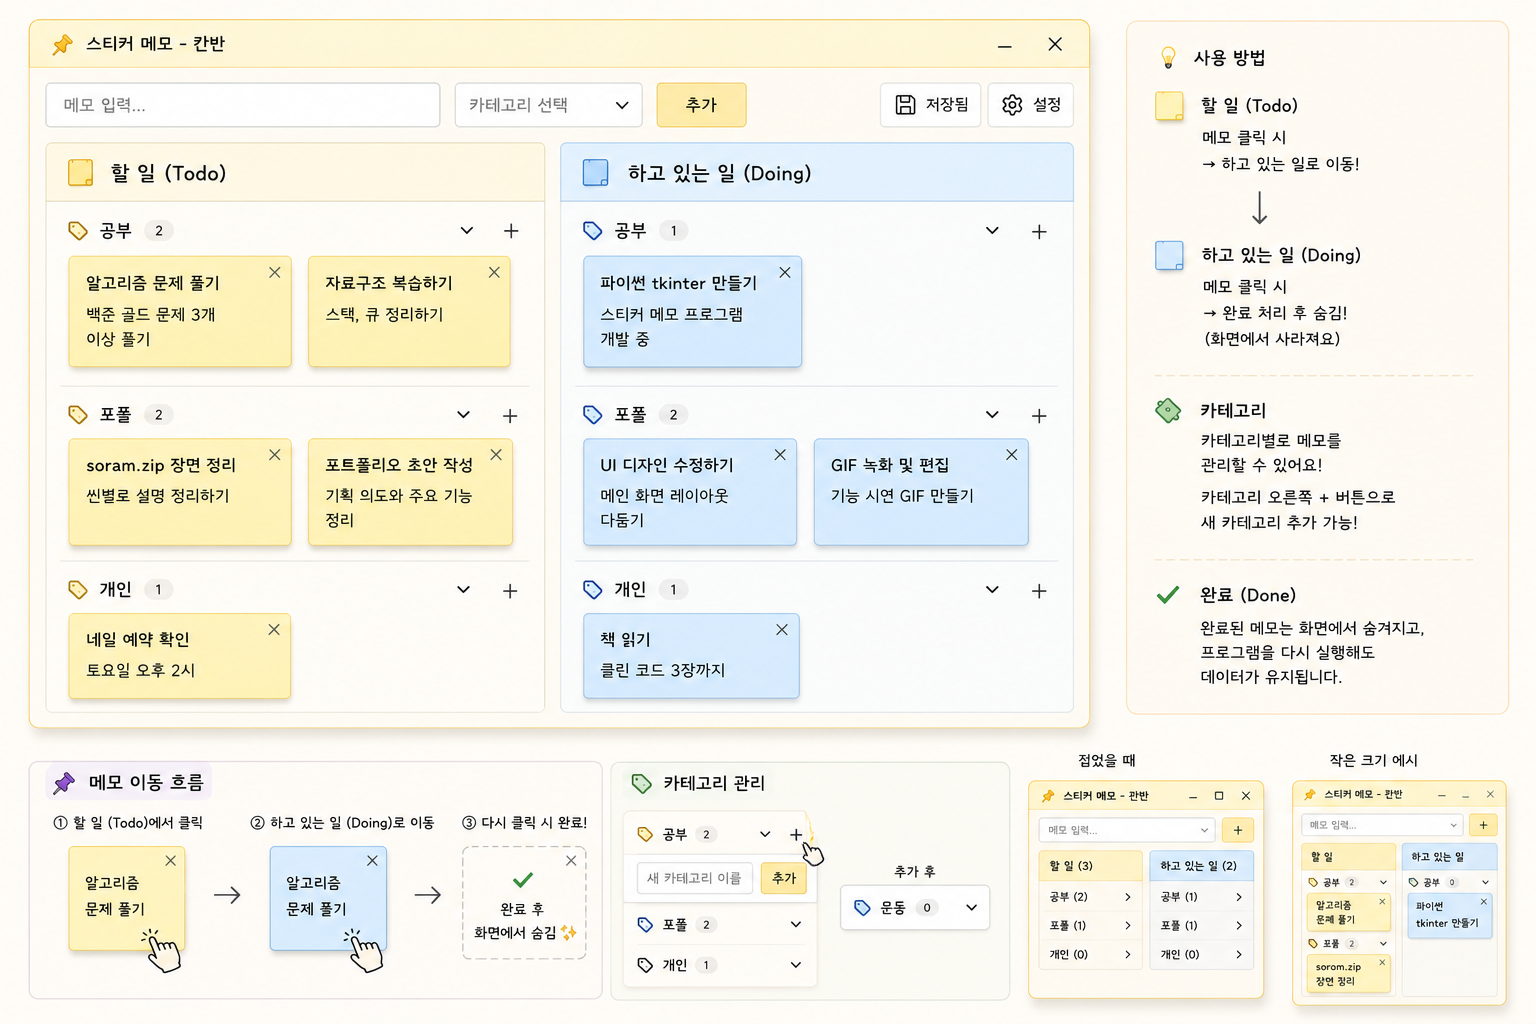
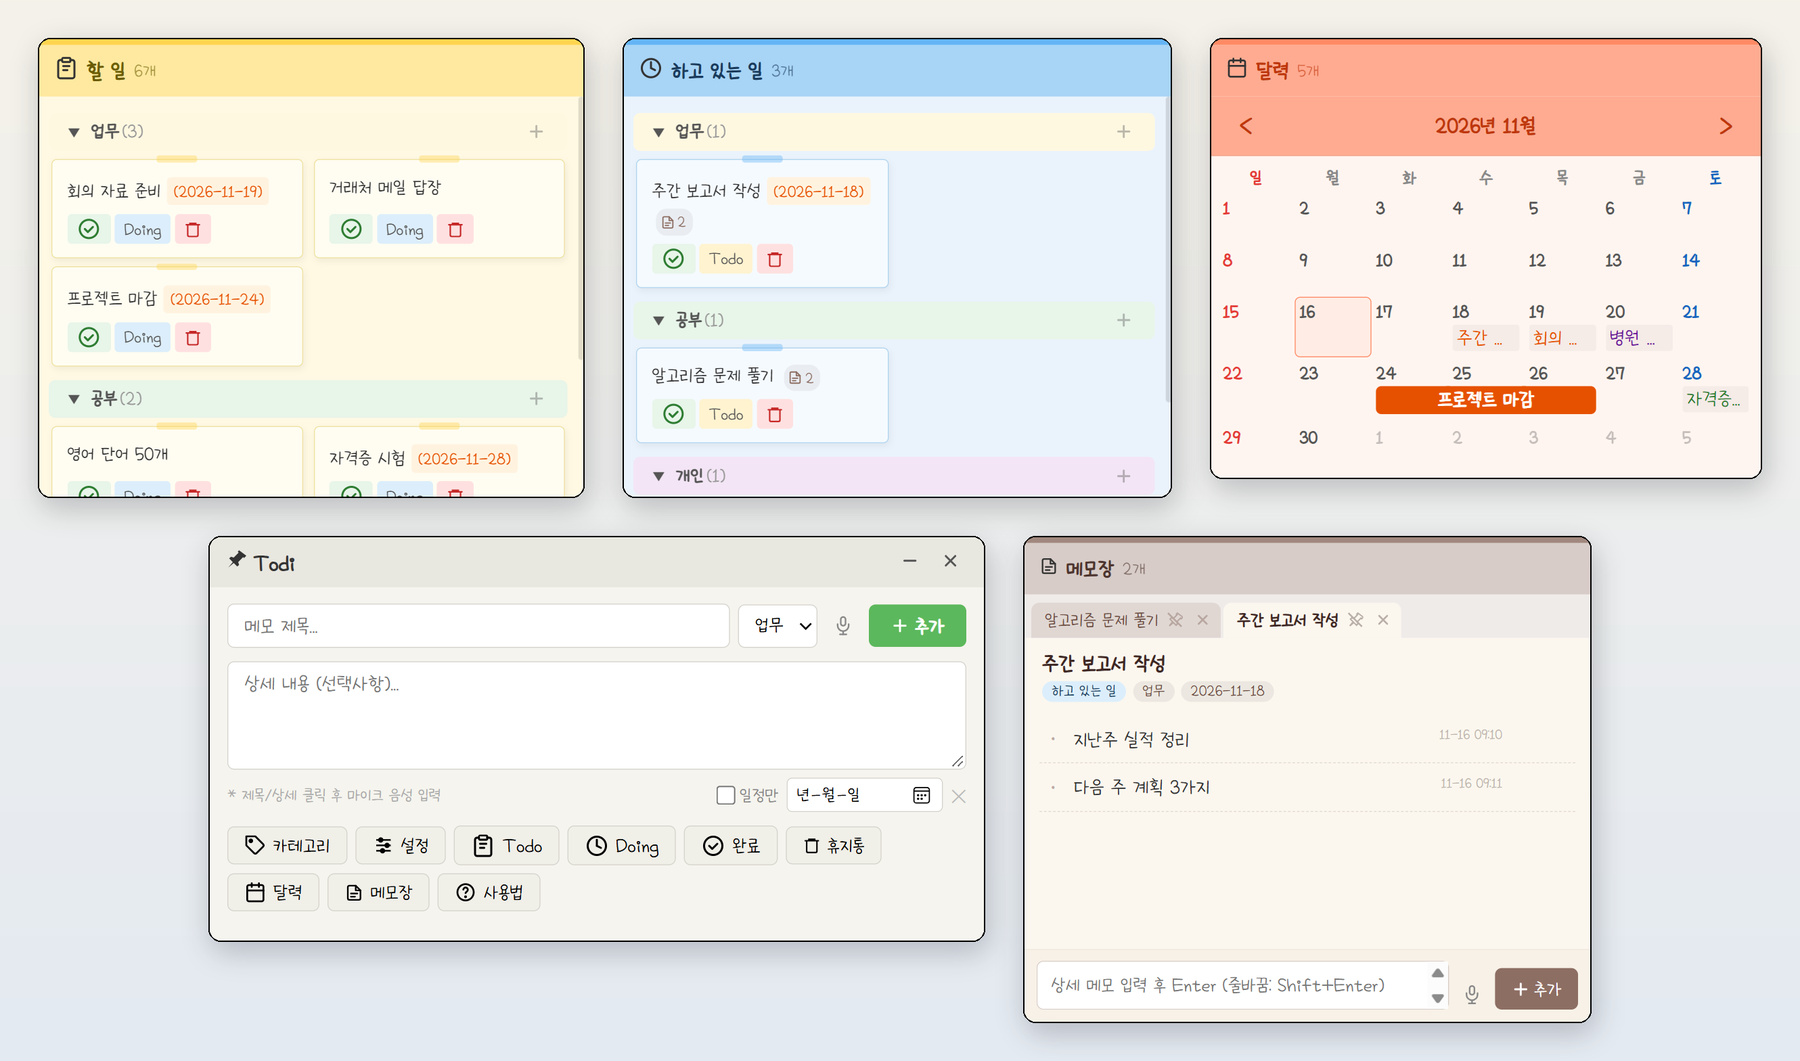
README 새로 쓰기: 1.3.0 기능 소개와 스크린샷 교체
- 현재 기능(달력, 상세 메모장, 메모 창, 자동 동기화, 내보내기/불러오기, 잠금)에 맞게 소개와 사용법을 다시 작성
- 실제 앱 화면(온글잎 긍정 글꼴)으로 대표 스크린샷 교체, 동기화·잠금 스크린샷 추가

diff --git a/README.md b/README.md
@@ -1,6 +1,7 @@
 # Todi
 
-데스크톱에 붙여놓는 칸반 메모 앱. 할 일을 카드로 만들어 **Todo → Doing → Done** 흐름으로 관리합니다.
+바탕화면에 붙여 두고 쓰는 칸반 메모 앱이에요. 할 일을 카드로 만들어 **할 일 → 하고 있는 일 → 완료** 순서로 관리하고,
+달력과 상세 메모장으로 일정과 메모까지 한곳에서 챙길 수 있어요.
 
 ![Todi 스크린샷](example.png)
 
@@ -11,29 +12,49 @@
 | OS | 파일 |
 |---|---|
 | Windows | `Todi_x.x.x_x64-setup.exe` |
-| macOS | `Todi_x.x.x_aarch64.dmg` |
+| macOS | `Todi_x.x.x_aarch64.dmg` 또는 `Todi_vx.x.x_macos.zip` |
 
-설치 후 업데이트는 자동으로 적용됩니다.
+설치한 뒤에는 새 버전이 나오면 앱을 켤 때 자동으로 업데이트돼요.
+업데이트하면 새로 생긴 기능을 스크린샷과 함께 알려 드리고, 패널의 **사용법** 버튼으로 전체 사용법을 언제든 다시 볼 수 있어요.
 
 ## 주요 기능
 
-- **칸반 보드** — Todo, Doing, Done 세 단계로 작업 흐름 관리
-- **독립 창** — 각 보드가 별도 창으로 열려 바탕화면 어디든 배치 가능
-- **카테고리** — 메모를 카테고리별로 분류, 드래그로 순서 변경
-- **시스템 트레이** — 닫아도 트레이에 상주, 언제든 빠르게 접근
-- **자동 시작** — 컴퓨터 켜면 자동 실행
-- **휴지통** — 삭제한 메모를 복원하거나 영구 삭제
-- **폰트 설정** — 시스템 폰트 중 원하는 폰트와 크기 선택
-- **자동 업데이트** — 새 버전이 나오면 앱 실행 시 자동 반영
-- **위치 기억** — 창 위치와 크기를 저장하여 다음 실행 시 복원
+### 할 일 관리
+- **칸반 보드** — 할 일 · 하고 있는 일 · 완료 · 휴지통이 각각 따로 된 창이라 바탕화면 어디에든 배치할 수 있어요
+- **카테고리** — 카테고리별로 묶어서 보고, 접고 펴고, 끌어서 순서를 바꿀 수 있어요
+- **달력** — 날짜를 정한 메모는 달력에 표시돼요. 기간 일정은 막대로, 공휴일은 빨간색으로 보여요
+- **상세 메모장** — 카드를 누르면 메모장 탭이 열려서 상세 메모를 한 줄씩 쌓을 수 있어요. 탭은 인터넷 창처럼 고정하고 순서를 바꿀 수 있어요
+- **메모 창** — 상세 메모 하나를 작은 창으로 따로 띄워 두고, 📌 로 고정하면 다시 켜도 그 자리에 떠 있어요
+- **음성 입력** — 🎤 를 누르고 말하면 입력칸에 글자가 들어가요
+
+### 다른 컴퓨터와 함께 쓰기
+![동기화와 잠금](example-sync.png)
+
+- **자동 동기화** — 두 컴퓨터에 같은 동기화 코드를 넣으면, 고른 카테고리의 추가 · 완료 · 수정이 서로 자동으로 반영돼요
+  - **같은 와이파이**: 같은 공유기에 연결된 컴퓨터끼리 바로 맞춰요. 내용이 인터넷으로 나가지 않아요
+  - **클라우드 · 공유 폴더**: OneDrive 같은 폴더를 함께 써서 집과 회사처럼 떨어진 곳끼리도 맞춰요
+  - 주고받는 내용은 동기화 코드로 암호화돼서, 코드를 모르면 (클라우드 회사도) 내용을 볼 수 없어요
+- **내보내기 / 불러오기** — 원하는 카테고리만 파일로 내보내서 다른 컴퓨터에서 불러올 수 있어요
+
+### 잠금
+- **카테고리 숨기기** — 회사 · 공용 PC에서 보이면 곤란한 카테고리를 비밀번호로 잠가요. 잠기면 모든 창에서 사라지고, 데이터 파일 안에서도 암호화돼요
+- **항상 잠금 / 필요할 때만** — 켤 때마다 잠긴 채로 시작하거나, 휴가처럼 필요할 때만 잠글 수 있어요
+- **복구 코드** — 비밀번호를 잊어도 복구 코드로 풀 수 있어요
+
+### 그 밖에
+- **시스템 트레이** — 창을 닫아도 트레이에 남아 있어서 언제든 다시 열 수 있어요
+- **자동 시작** — 컴퓨터를 켜면 자동으로 실행돼요
+- **글꼴 · 투명도 · 달력 색상** — 설치된 글꼴 중에서 고르고, 창 투명도와 달력 색을 바꿀 수 있어요
+- **위치 기억** — 창 위치와 크기를 기억해서 다음에 켜도 그대로예요
 
 ## 사용법
 
-1. **메모 추가** — 패널에서 제목 입력 후 카테고리를 선택하고 추가
-2. **상태 이동** — 카드의 버튼으로 Todo → Doing → Done 이동
-3. **메모 수정** — 카드의 수정 버튼으로 제목, 내용, 카테고리 변경
-4. **카테고리 관리** — 패널의 카테고리 버튼에서 추가, 삭제, 이름 변경, 드래그 정렬
-5. **창 관리** — 각 창을 자유롭게 배치하고, 트레이 아이콘으로 열기/닫기
+1. **메모 추가** — 패널에서 제목을 쓰고 카테고리를 고른 뒤 **추가**(또는 Enter). 날짜를 정하면 달력에도 표시돼요
+2. **상태 옮기기** — 카드의 **Doing** 버튼으로 하고 있는 일로, ✓ 버튼으로 완료로 옮겨요
+3. **상세 메모** — 카드를 누르면 메모장에 그 항목의 탭이 열려요
+4. **카테고리 관리** — 패널의 **카테고리** 버튼에서 추가 · 삭제 · 이름 변경 · 끌어서 정렬
+5. **다른 컴퓨터와 맞추기** — **설정 → 자동 동기화**에서 코드를 만들고, 다른 컴퓨터에 그 코드를 넣어요
+6. **숨기기** — **설정 → 잠금**에서 숨길 카테고리와 비밀번호를 정하고, 패널의 **잠그기** 버튼으로 잠가요
 
 ## 기술 스택
 
@@ -42,6 +63,7 @@
 | 프레임워크 | [Tauri 2](https://tauri.app/) |
 | 백엔드 | Rust |
 | 프론트엔드 | HTML, CSS, JavaScript (프레임워크 없음) |
+| 동기화 · 잠금 암호화 | ChaCha20-Poly1305, PBKDF2-HMAC-SHA256 |
 | 빌드/배포 | GitHub Actions, NSIS (Windows), DMG (macOS) |
 | 자동 업데이트 | tauri-plugin-updater |
 
